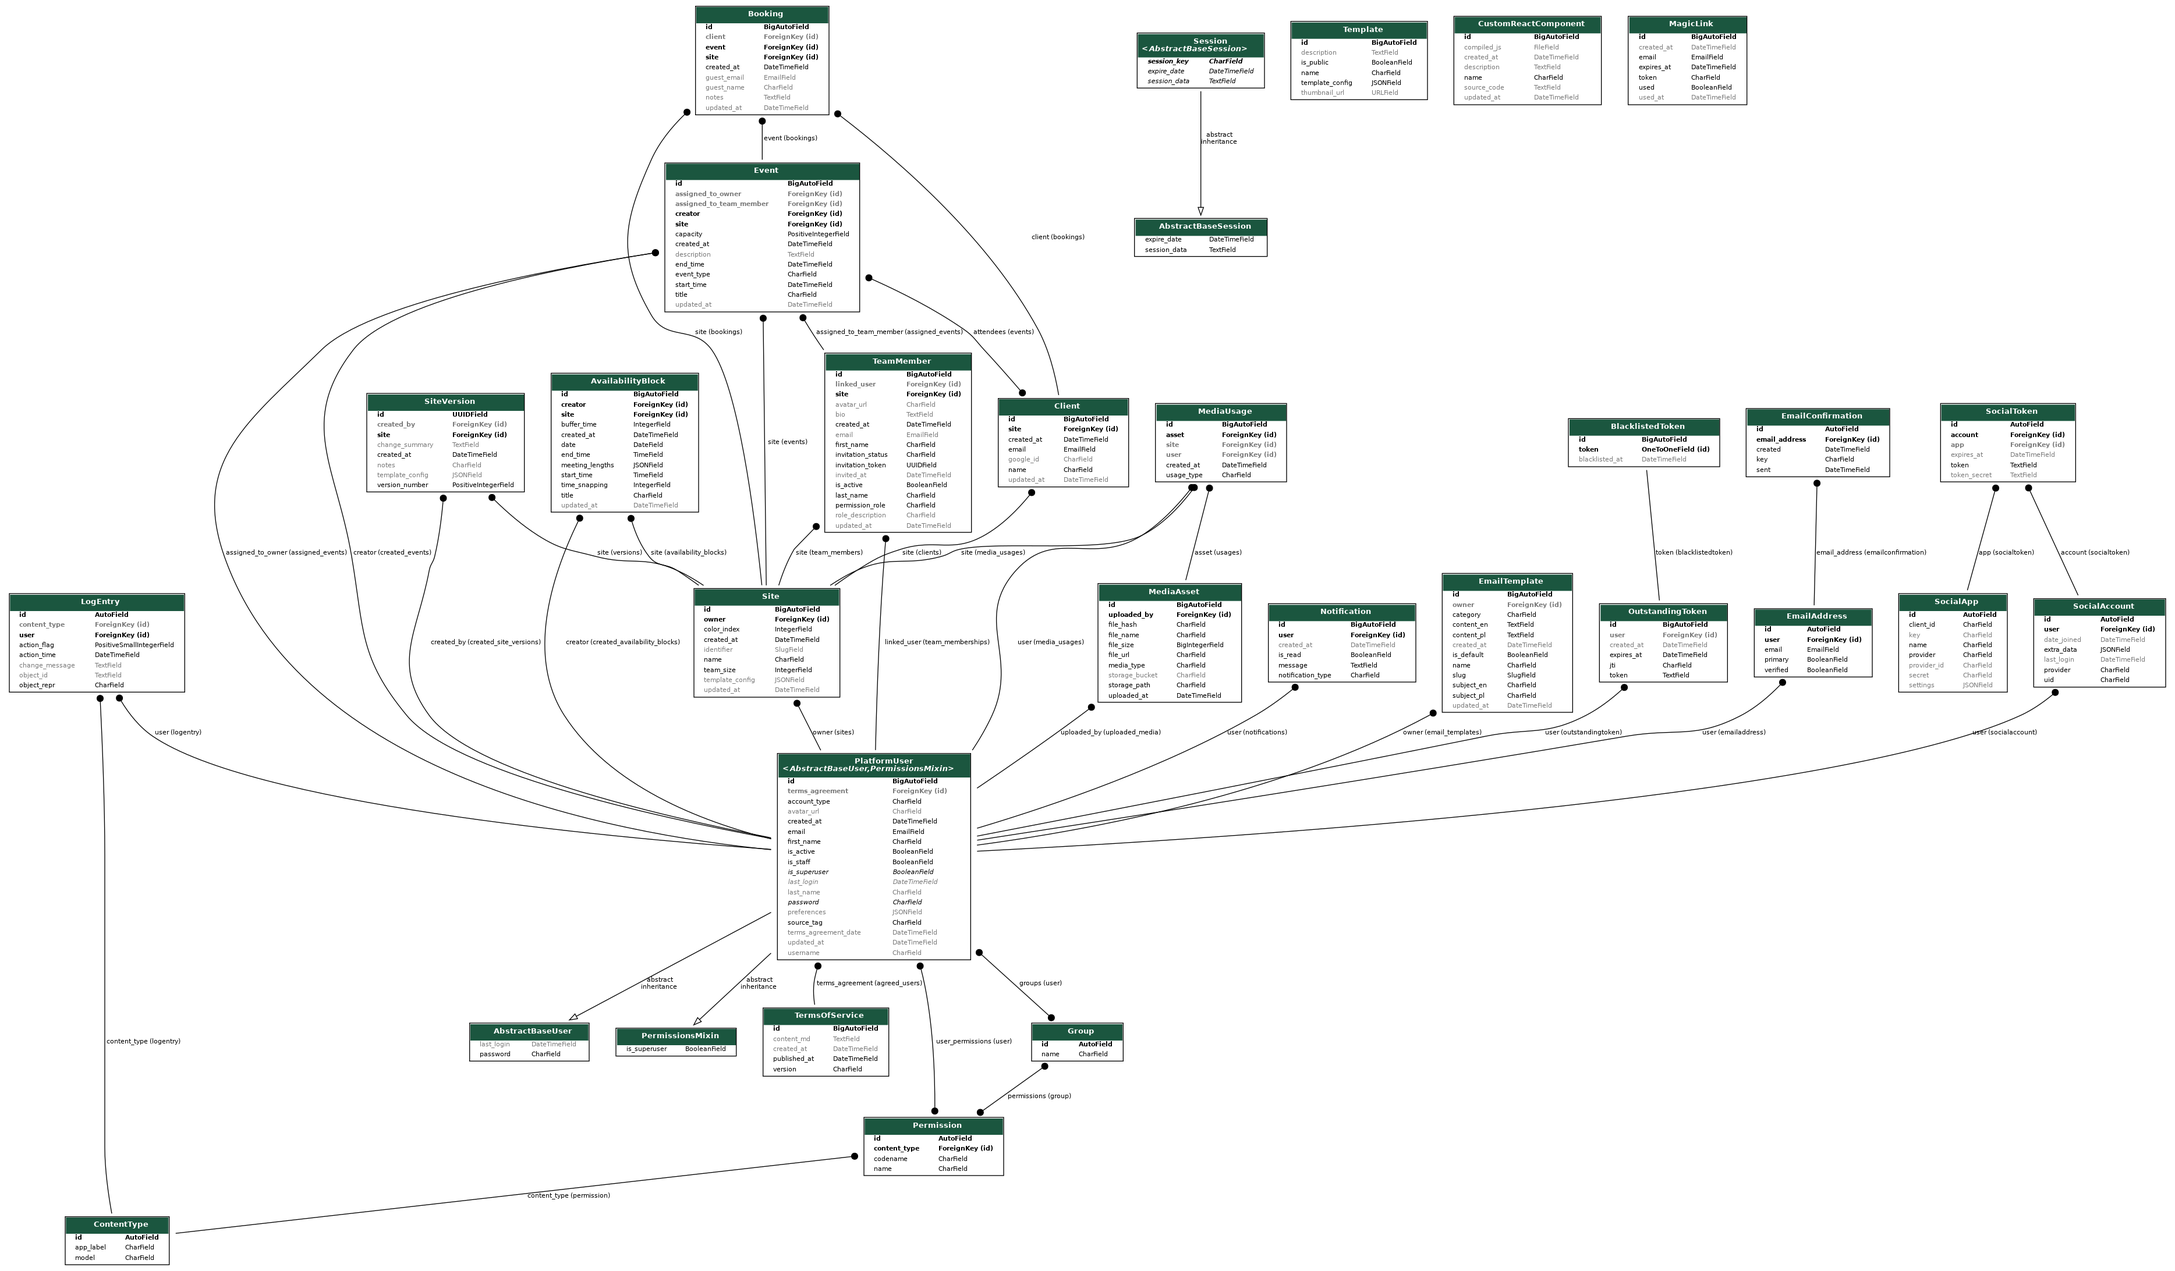
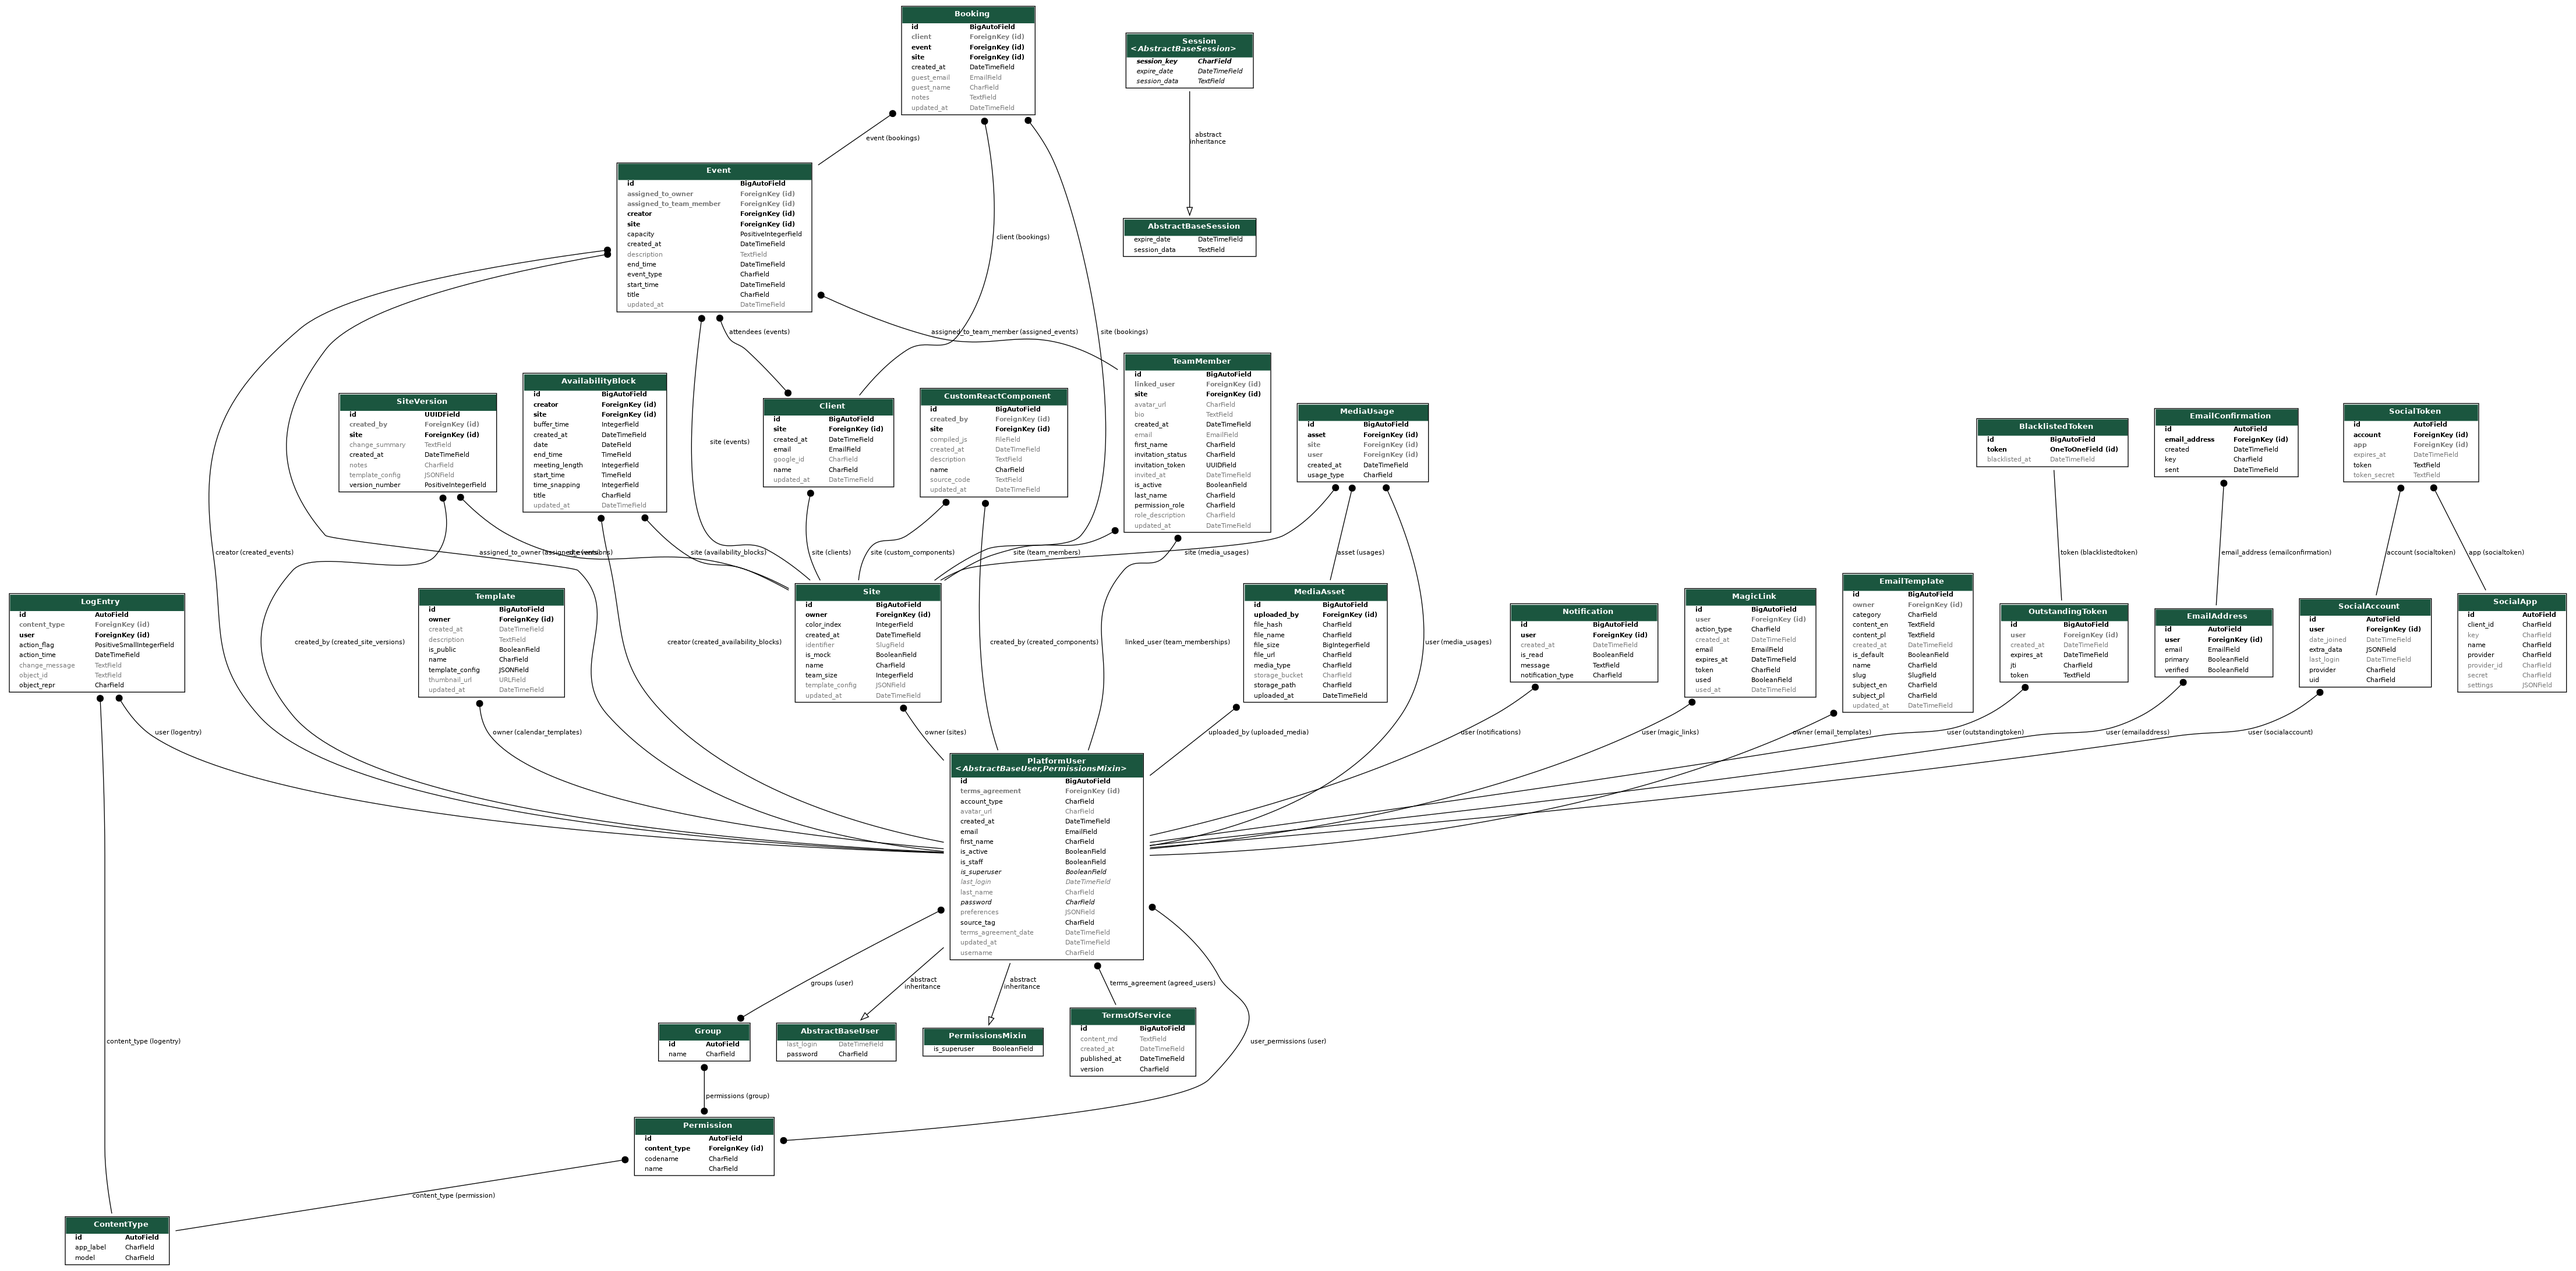
Refactor migrations and models: consolidate CustomReactComponent and MagicLink, add is_mock field to Site, and update event assignment logic

diff --git a/FRONTEND/src/STUDIO/routes.jsx b/FRONTEND/src/STUDIO/routes.jsx
@@ -28,6 +28,7 @@ import ConfirmEmailPage from './pages/Auth/ConfirmEmailPage';
 import MagicLoginPage from './pages/Auth/MagicLoginPage';
 import BuildingLoginPage from './pages/Auth/BuildingLoginPage';
 import TermsAdminPage from './pages/Admin/TermsAdminPage';
+import ChangePasswordPage from './pages/Auth/ChangePasswordPage';
 
 const StudioApp = () => (
   <Routes>
@@ -42,6 +43,9 @@ const StudioApp = () => (
     
     {/* Magic link login - PUBLIC route, no auth required */}
     <Route path="magic-login/:token" element={<MagicLoginPage />} />
+    
+    {/* Password reset - PUBLIC route, no auth required */}
+    <Route path="reset-password/:token" element={<ChangePasswordPage />} />
     
     {/* Building login page - shown during site creation flow */}
     <Route path="building-login" element={<BuildingLoginPage />} />

diff --git a/BACKEND/api/migrations/0001_initial.py b/BACKEND/api/migrations/0001_initial.py
@@ -1,4 +1,4 @@
-# Generated by Django 5.2.1 on 2025-11-17 16:54
+# Generated by Django 5.2.1 on 2025-11-19 11:57
 
 import api.models
 import django.db.models.deletion
@@ -27,33 +27,6 @@ class Migration(migrations.Migration):
                 ('created_at', models.DateTimeField(default=django.utils.timezone.now)),
                 ('updated_at', models.DateTimeField(auto_now=True)),
             ],
-        ),
-        migrations.CreateModel(
-            name='CustomReactComponent',
-            fields=[
-                ('id', models.BigAutoField(auto_created=True, primary_key=True, serialize=False, verbose_name='ID')),
-                ('name', models.CharField(max_length=100, unique=True)),
-                ('description', models.TextField(blank=True)),
-                ('source_code', models.TextField(blank=True, help_text='Oryginalny kod JSX dla celów edycji')),
-                ('compiled_js', models.FileField(blank=True, null=True, upload_to=api.models.custom_component_path)),
-                ('created_at', models.DateTimeField(auto_now_add=True)),
-                ('updated_at', models.DateTimeField(auto_now=True)),
-            ],
-        ),
-        migrations.CreateModel(
-            name='MagicLink',
-            fields=[
-                ('id', models.BigAutoField(auto_created=True, primary_key=True, serialize=False, verbose_name='ID')),
-                ('email', models.EmailField(max_length=254)),
-                ('token', models.CharField(db_index=True, max_length=64, unique=True)),
-                ('created_at', models.DateTimeField(auto_now_add=True)),
-                ('expires_at', models.DateTimeField()),
-                ('used', models.BooleanField(default=False)),
-                ('used_at', models.DateTimeField(blank=True, null=True)),
-            ],
-            options={
-                'ordering': ['-created_at'],
-            },
         ),
         migrations.CreateModel(
             name='TermsOfService',
@@ -134,6 +107,7 @@ class Migration(migrations.Migration):
                 ('identifier', models.SlugField(blank=True, editable=False, max_length=255, null=True, unique=True)),
                 ('color_index', models.IntegerField(default=0, help_text='Index of the site color in the palette (0-11)')),
                 ('team_size', models.IntegerField(default=1, help_text='Cached count of team members for calendar optimization')),
+                ('is_mock', models.BooleanField(default=False, help_text='Flag indicating if this is a mock/demo site for testing (includes showcase)')),
                 ('template_config', models.JSONField(blank=True, default=dict)),
                 ('created_at', models.DateTimeField(default=django.utils.timezone.now)),
                 ('updated_at', models.DateTimeField(auto_now=True)),
@@ -171,6 +145,20 @@ class Migration(migrations.Migration):
             options={
                 'ordering': ['start_time'],
             },
+        ),
+        migrations.CreateModel(
+            name='CustomReactComponent',
+            fields=[
+                ('id', models.BigAutoField(auto_created=True, primary_key=True, serialize=False, verbose_name='ID')),
+                ('name', models.CharField(max_length=100)),
+                ('description', models.TextField(blank=True)),
+                ('source_code', models.TextField(blank=True, help_text='Oryginalny kod JSX dla celów edycji')),
+                ('compiled_js', models.FileField(blank=True, null=True, upload_to=api.models.custom_component_path)),
+                ('created_at', models.DateTimeField(auto_now_add=True)),
+                ('updated_at', models.DateTimeField(auto_now=True)),
+                ('created_by', models.ForeignKey(blank=True, help_text='User who created this component', null=True, on_delete=django.db.models.deletion.SET_NULL, related_name='created_components', to=settings.AUTH_USER_MODEL)),
+                ('site', models.ForeignKey(help_text='Site this custom component belongs to', on_delete=django.db.models.deletion.CASCADE, related_name='custom_components', to='api.site')),
+            ],
         ),
         migrations.AddField(
             model_name='client',
@@ -254,7 +242,7 @@ class Migration(migrations.Migration):
         migrations.AddField(
             model_name='event',
             name='assigned_to_team_member',
-            field=models.ForeignKey(blank=True, help_text='Team member assigned to this event', null=True, on_delete=django.db.models.deletion.SET_NULL, related_name='assigned_events', to='api.teammember'),
+            field=models.ForeignKey(blank=True, help_text='Team member assigned to this event', null=True, on_delete=django.db.models.deletion.CASCADE, related_name='assigned_events', to='api.teammember'),
         ),
         migrations.CreateModel(
             name='Template',
@@ -291,6 +279,24 @@ class Migration(migrations.Migration):
                 'indexes': [models.Index(fields=['owner', 'category'], name='api_emailte_owner_i_7327e9_idx'), models.Index(fields=['slug'], name='api_emailte_slug_f862f4_idx')],
             },
         ),
+        migrations.CreateModel(
+            name='MagicLink',
+            fields=[
+                ('id', models.BigAutoField(auto_created=True, primary_key=True, serialize=False, verbose_name='ID')),
+                ('email', models.EmailField(max_length=254)),
+                ('token', models.CharField(db_index=True, max_length=64, unique=True)),
+                ('action_type', models.CharField(choices=[('login', 'Login'), ('password_reset', 'Password Reset')], default='login', max_length=20)),
+                ('created_at', models.DateTimeField(auto_now_add=True)),
+                ('expires_at', models.DateTimeField()),
+                ('used', models.BooleanField(default=False)),
+                ('used_at', models.DateTimeField(blank=True, null=True)),
+                ('user', models.ForeignKey(blank=True, help_text='User associated with this magic link', null=True, on_delete=django.db.models.deletion.CASCADE, related_name='magic_links', to=settings.AUTH_USER_MODEL)),
+            ],
+            options={
+                'ordering': ['-created_at'],
+                'indexes': [models.Index(fields=['user', 'action_type'], name='api_magicli_user_id_167e02_idx'), models.Index(fields=['user', 'used'], name='api_magicli_user_id_12d77a_idx')],
+            },
+        ),
         migrations.AddIndex(
             model_name='mediaasset',
             index=models.Index(fields=['media_type'], name='api_mediaas_media_t_b488c2_idx'),
@@ -310,6 +316,14 @@ class Migration(migrations.Migration):
         migrations.AddConstraint(
             model_name='mediausage',
             constraint=models.UniqueConstraint(condition=models.Q(('user__isnull', False)), fields=('asset', 'user', 'usage_type'), name='mediausage_unique_user_usage'),
+        ),
+        migrations.AddIndex(
+            model_name='customreactcomponent',
+            index=models.Index(fields=['site'], name='api_customr_site_id_83ae73_idx'),
+        ),
+        migrations.AlterUniqueTogether(
+            name='customreactcomponent',
+            unique_together={('site', 'name')},
         ),
         migrations.AddIndex(
             model_name='client',

diff --git a/BACKEND/api/models.py b/BACKEND/api/models.py
@@ -448,15 +448,35 @@ def custom_component_path(instance, filename):
 
 
 class CustomReactComponent(models.Model):
-    name = models.CharField(max_length=100, unique=True)
+    site = models.ForeignKey(
+        Site, 
+        on_delete=models.CASCADE, 
+        related_name='custom_components',
+        help_text='Site this custom component belongs to'
+    )
+    created_by = models.ForeignKey(
+        PlatformUser,
+        on_delete=models.SET_NULL,
+        null=True,
+        blank=True,
+        related_name='created_components',
+        help_text='User who created this component'
+    )
+    name = models.CharField(max_length=100)
     description = models.TextField(blank=True)
     source_code = models.TextField(blank=True, help_text='Oryginalny kod JSX dla celów edycji')
     compiled_js = models.FileField(upload_to=custom_component_path, blank=True, null=True)
     created_at = models.DateTimeField(auto_now_add=True)
     updated_at = models.DateTimeField(auto_now=True)
 
+    class Meta:
+        unique_together = [('site', 'name')]
+        indexes = [
+            models.Index(fields=['site']),
+        ]
+
     def __str__(self):
-        return self.name
+        return f"{self.name} ({self.site.identifier})"
 
 
 class Notification(models.Model):
@@ -487,6 +507,14 @@ class MagicLink(models.Model):
         LOGIN = 'login', 'Login'
         PASSWORD_RESET = 'password_reset', 'Password Reset'
     
+    user = models.ForeignKey(
+        PlatformUser, 
+        on_delete=models.CASCADE, 
+        related_name='magic_links',
+        null=True,
+        blank=True,
+        help_text='User associated with this magic link'
+    )
     email = models.EmailField(max_length=254)
     token = models.CharField(max_length=64, unique=True, db_index=True)
     action_type = models.CharField(max_length=20, choices=ActionType.choices, default=ActionType.LOGIN)
@@ -497,9 +525,13 @@ class MagicLink(models.Model):
     
     class Meta:
         ordering = ['-created_at']
+        indexes = [
+            models.Index(fields=['user', 'action_type']),
+            models.Index(fields=['user', 'used']),
+        ]
     
     def __str__(self):
-        return f'Magic link for {self.email} ({"used" if self.used else "active"})'
+        return f'Magic link for {self.user.email} ({"used" if self.used else "active"})'
     
     def is_valid(self):
         """Check if the magic link is still valid."""
@@ -516,13 +548,22 @@ class MagicLink(models.Model):
         self.save(update_fields=['used', 'used_at'])
     
     @classmethod
-    def create_for_email(cls, email, expiry_minutes=15, action_type=None):
-        """Create a new magic link for the given email."""
+    def create_for_email(cls, email, expiry_minutes=15, action_type=None, user=None):
+        """Create a new magic link for the given email and user."""
         if action_type is None:
             action_type = cls.ActionType.LOGIN
+        
+        # If user is not provided, try to find by email
+        if user is None:
+            try:
+                user = PlatformUser.objects.get(email=email)
+            except PlatformUser.DoesNotExist:
+                raise ValueError(f"No user found with email {email}")
+        
         token = get_random_string(64)
         expires_at = timezone.now() + timedelta(minutes=expiry_minutes)
         return cls.objects.create(
+            user=user,
             email=email,
             token=token,
             action_type=action_type,
